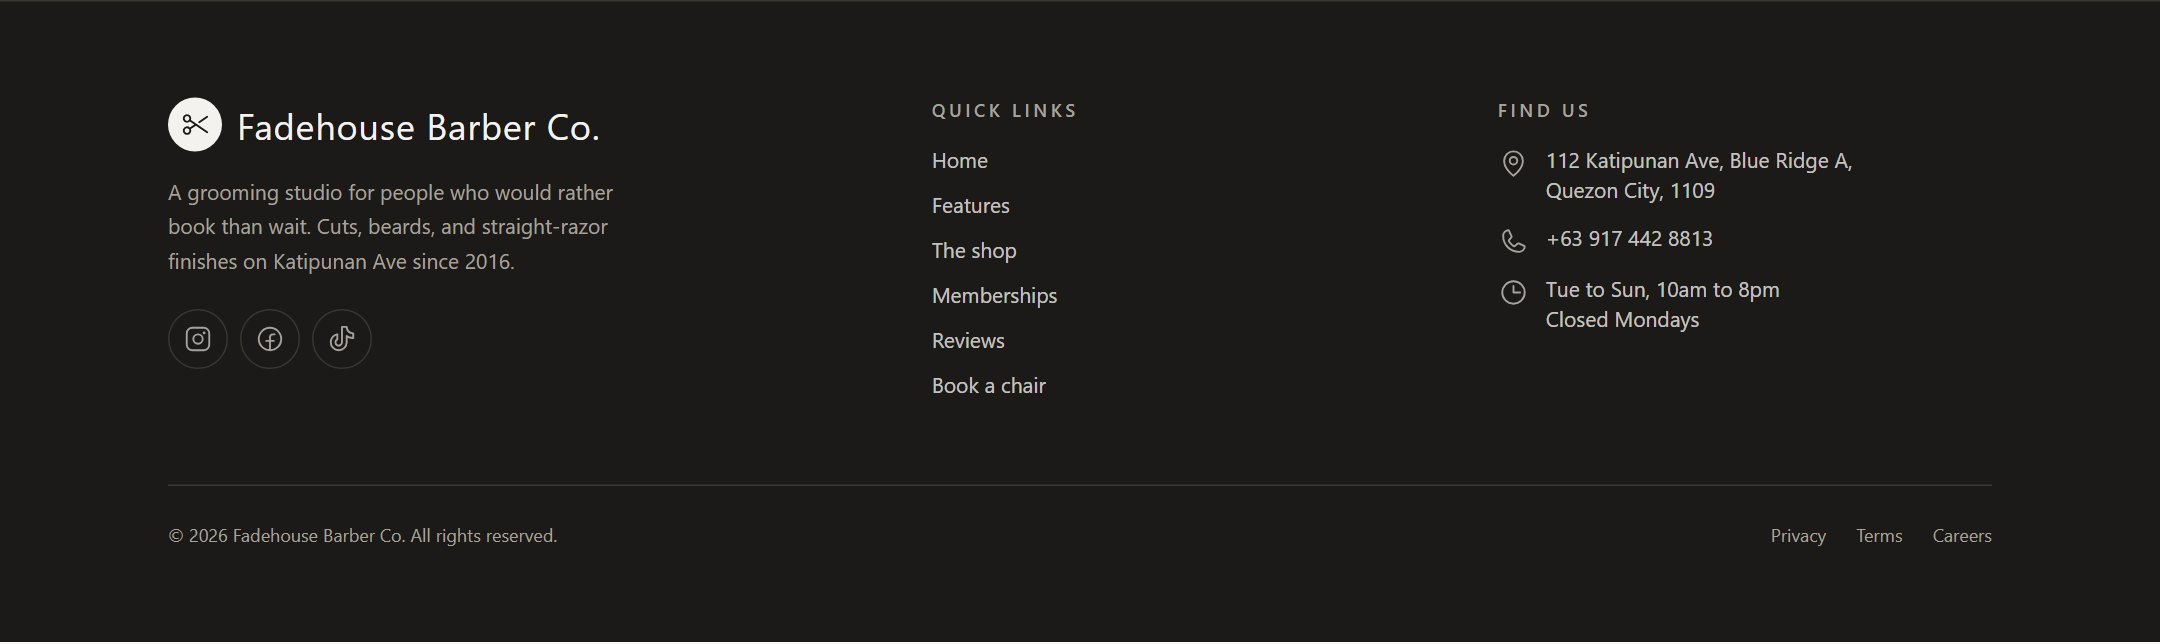
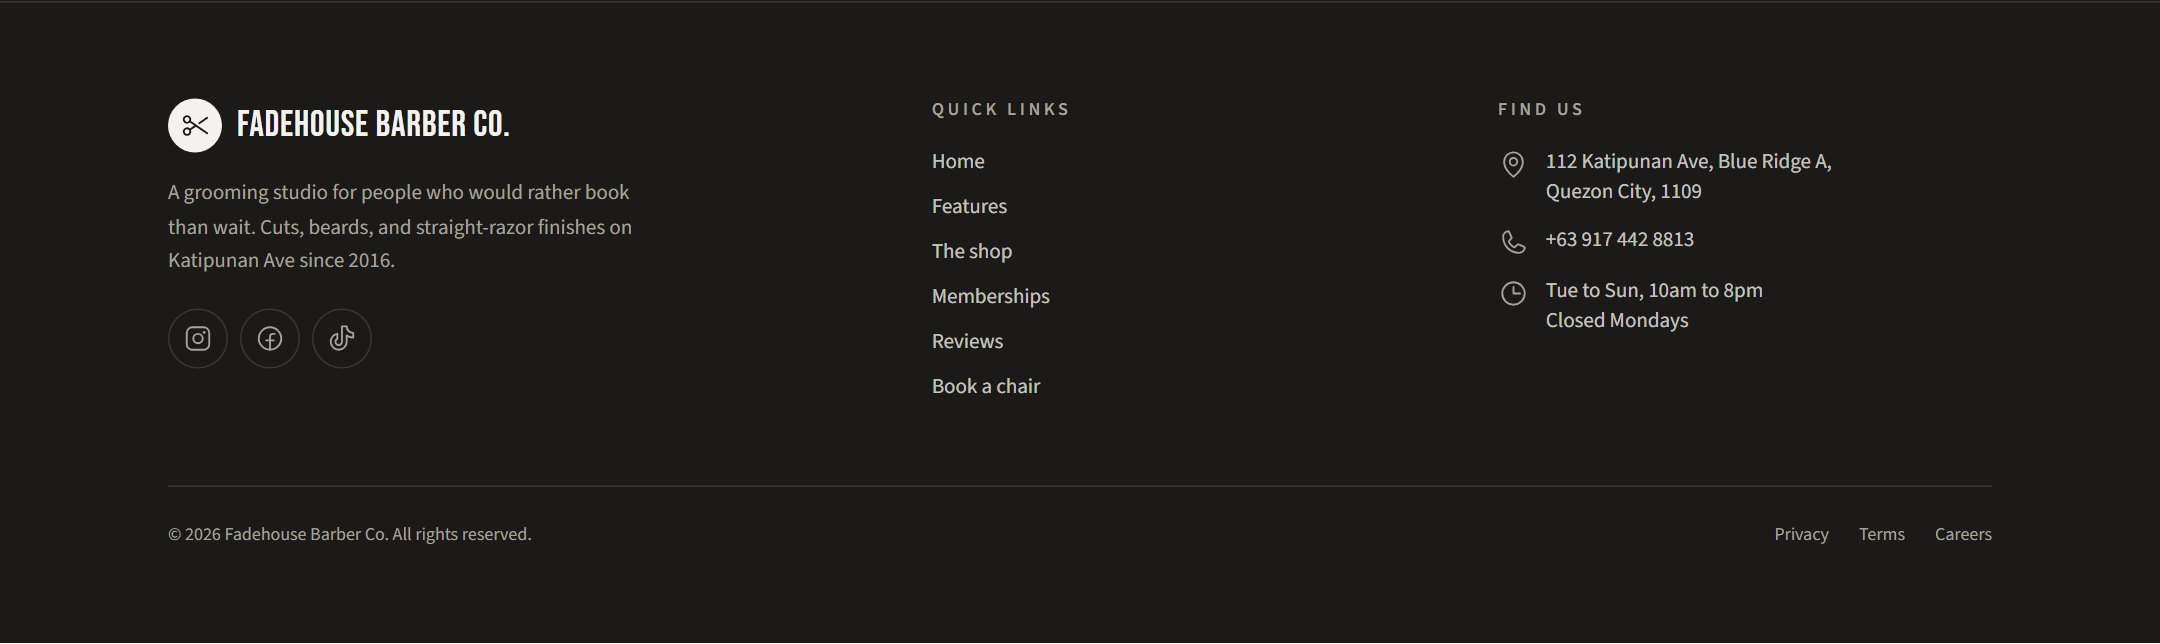
fix: self-host fonts via @font-face so type renders without system fonts

diff --git a/resources/css/app.css b/resources/css/app.css
@@ -19,6 +19,45 @@
 }
 
 /* -------------------------------------------------------------------------- */
+/*  Self-hosted fonts (files in public/fonts/, no runtime Google/Bunny call).  */
+/* -------------------------------------------------------------------------- */
+@font-face {
+    font-family: 'Bebas Neue';
+    font-style: normal;
+    font-weight: 400;
+    font-display: swap;
+    src: url('/fonts/bebas-neue-400.woff2') format('woff2');
+}
+@font-face {
+    font-family: 'Source Sans 3';
+    font-style: normal;
+    font-weight: 400;
+    font-display: swap;
+    src: url('/fonts/source-sans-3-400.woff2') format('woff2');
+}
+@font-face {
+    font-family: 'Source Sans 3';
+    font-style: normal;
+    font-weight: 500;
+    font-display: swap;
+    src: url('/fonts/source-sans-3-500.woff2') format('woff2');
+}
+@font-face {
+    font-family: 'Source Sans 3';
+    font-style: normal;
+    font-weight: 600;
+    font-display: swap;
+    src: url('/fonts/source-sans-3-600.woff2') format('woff2');
+}
+@font-face {
+    font-family: 'Source Sans 3';
+    font-style: normal;
+    font-weight: 700;
+    font-display: swap;
+    src: url('/fonts/source-sans-3-700.woff2') format('woff2');
+}
+
+/* -------------------------------------------------------------------------- */
 /*  Design tokens  --  Fadehouse Barber Co.                                    */
 /*  Palette family: warm rust accent + warm charcoal ink + warm off-white.     */
 /*  One accent (rust) is used across the whole page. One radius system:        */

diff --git a/vite.config.js b/vite.config.js
@@ -1,6 +1,5 @@
 import { defineConfig } from 'vite';
 import laravel from 'laravel-vite-plugin';
-import { bunny } from 'laravel-vite-plugin/fonts';
 import tailwindcss from '@tailwindcss/vite';
 
 export default defineConfig({
@@ -8,11 +7,6 @@ export default defineConfig({
         laravel({
             input: ['resources/css/app.css', 'resources/js/app.js'],
             refresh: true,
-            fonts: [
-                // Self-hosted at build time (no runtime Google Fonts <link>).
-                bunny('Bebas Neue', { weights: [400] }),
-                bunny('Source Sans 3', { weights: [400, 500, 600, 700] }),
-            ],
         }),
         tailwindcss(),
     ],
